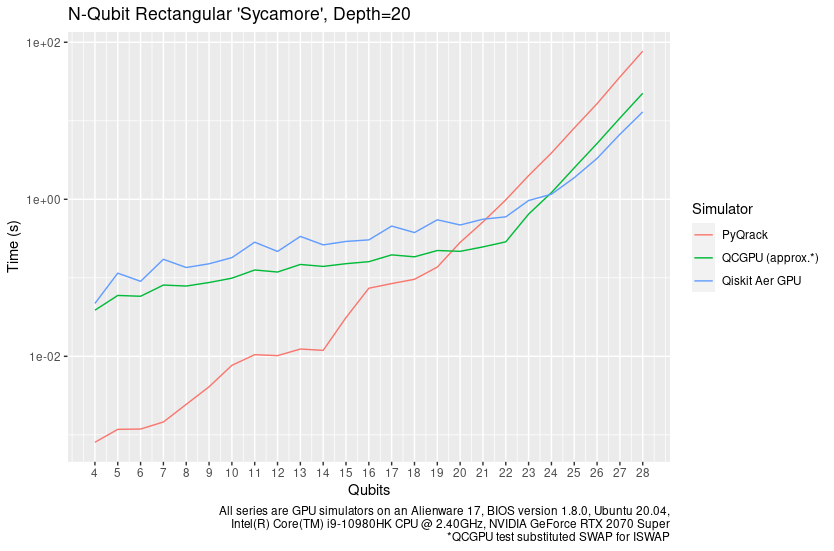
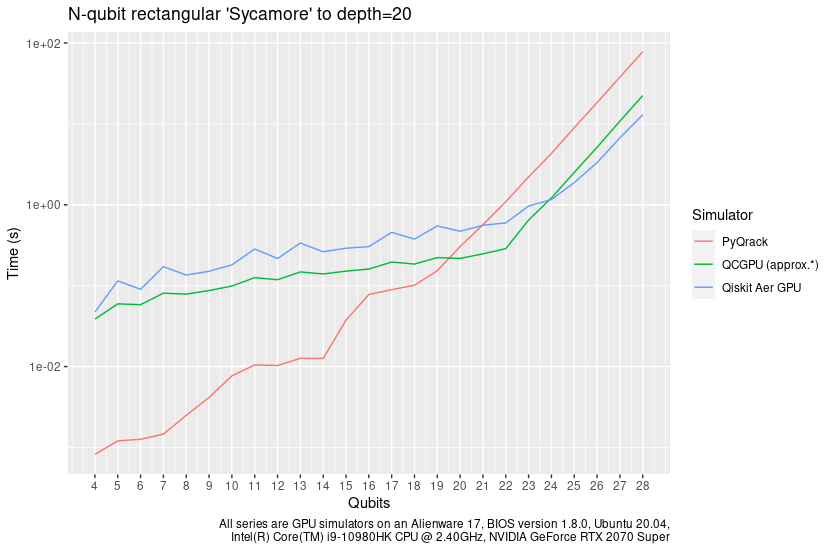
Correct random circuit benchmark, add new cases

diff --git a/docs/performance.rst b/docs/performance.rst
@@ -39,7 +39,7 @@ This performance document is meant to be a simple, to-the-point, and preliminary
 
 100 timed trials of single and parallel gates were run for each qubit count between 4 and 28 qubits. Three tests were performed: the quantum Fourier transform, ("QFT"), random circuits constructed from a universal gate set, and an idealized approximation of Google's Sycamore chip benchmark, as per [Sycamore]_. The benchmarking code is available at `https://github.com/vm6502q/simulator-benchmarks <https://github.com/vm6502q/simulator-benchmarks>`_. Default build and runtime options were used for all candidates. **Notably, this means Qrack ran at single floating point accuracy whereas QCGPU and Qiskit ran at double floating point accuracy.**
 
-The same Alienware 17 laptop device was used for all benchmarks, (BIOS version 1.8.0, Intel(R) Core(TM) i9-10980HK CPU @ 2.40GHz, NVIDIA GeForce RTX 2070 Super). Benchmarks were collected from the week of October 3, 2021 through October 10, 2021.
+The same Alienware 17 laptop device was used for all benchmarks, (BIOS version 1.8.0, Intel(R) Core(TM) i9-10980HK CPU @ 2.40GHz, NVIDIA GeForce RTX 2070 Super). Benchmarks were collected from the week of October 3, 2021 through October 16, 2021.
 
 Comparative benchmarks included QCGPU, the Qiskit-Aer GPU simulator, and Qrack's default typically optimal "stack" of a "QUnit" layer on top of "QStabilizerHybrid," on top of "QPager," on top of a new Pauli gate fusion layer, on top of "QHybrid." All of these candidates are GPU-based, though Qrack "hybridizes" with CPU based simulation as appropriate to improve performance.
 
@@ -58,17 +58,25 @@ The "quantum" (or "discrete") Fourier transform (QFT/DFT) is a realistic and imp
 
 .. image:: performance/qft.png
 
-Likely due to a combination of all of its optimization "layers" and techniques, including Schmidt decomposition, "hybridization" of CPU with GPU simulation, and "hybridization" of stabilizer methods with "Schrödinger method," Qrack clearly outperforms purely GPU based simulations at low qubit widths. Recall that Qrack uses a representatively "hard" initialization with uniformly random single qubit unitary gates on this test as described above. We can on the faster PyQrack series, permutation basis eigenstate inputs are much more quickly executed, for example. Qrack has historically been the only candidate tested which exhibits special case performance on the QFT, as for random permutation basis eigenstate initialization.
+Likely due to a combination of all of its optimization "layers" and techniques, including Schmidt decomposition, "hybridization" of CPU with GPU simulation, and "hybridization" of stabilizer methods with "Schrödinger method," Qrack clearly outperforms purely GPU based simulations at low qubit widths. Recall that Qrack uses a representatively "hard" initialization with uniformly random single qubit unitary gates on this test as described above. We can see on the faster PyQrack series, permutation basis eigenstate inputs are much more quickly executed, for example. Qrack has historically been the only candidate tested which exhibits special case performance on the QFT, as for random permutation basis eigenstate initialization.
 
-Similarly, on random universal circuits, defined above and in the benchmark repository, Qrack leads at all qubit widths.
+Similarly, on random universal circuits, defined above and in the benchmark repository, Qrack leads at low qubit widths.
 
 .. image:: performance/random_universal.png
-
-Again, techniques including Schmidt decomposition, CPU/GPU hybridization, stabilizer/"ket" hybridization, and automatic coalescence of parallel X, Y, and Z gives Qrack a universal edge on a realistic universal gate set for general applications.
 
 For "Sycamore" circuits, argued by other authors to establish "quantum supremacy" of native quantum hardware, Qrack maintains is low-width relative performance edge, (with PyQrack optimization options disabled except CPU/GPU hybridization, but still using "paging" with the C++ "QPager" layer).
 
 .. image:: performance/sycamore.png
+
+However, we can furnish examples of circuits where Qrack has a commanding natural edge over naive "Schrödinger method," but also state-of-the-art in optimizing transpilation, (which could be additionally "layered" over Qrack itself.
+
+.. image:: performance/single_qubits.png
+
+The above graph is a test of (non-Clifford) single qubit gates, to depth of 20 on each qubit in simulator width, in parallel across the full width of a simulator instance. Qrack is transparently able to handle this circuit via "Schmidt decomposition," as single separable qubit subsystems, (similar to tensor network "matrix product states,") completing the test in linear time, over qubit widths. Surprisingly, Qiskit transpilation makes no great difference in execution time, in this case, despite successfully reducing depth of 20 qubits to depth of 1. (We could guess, Qiskit might handle this via conventional "gate fusion" techniques, even without transpilation.) However, even reducing circuit depth to 1 for each qubit in the width, Qiskit still suffers an exponential complexity disadvantage, since it still relies on fully connected "Schrödinger method" at base.
+
+.. image:: performance/random_ccx.png
+
+Our last case for consideration is CCNOT (or CCX) gate input qubit combinations selected at random (with elimination) from an implicitly fully-connected topology, across the width of the simulator, repeated for 20 layers of depth, (initialized with a random permutation basis eigenstate, so as to produce a non-trivial change in the state of the qubits). Remember, CCNOT is specifically non-Clifford, but it is also sufficient in itself to serve as a single gate basis for the entirety of "classical" computation, "universally." So, we see that Qrack is capable of simulating a quantum computer that is emulating a "classical" computer, perhaps trivially. Rather, while we have no direct need to simulate the case of a quantum computer emulating classical computation, it is not granted that any other major quantum computer simulator is able to recognize and handle this case, "transparently," with full and automatic interoperability while all parts of the simulator APIS, without quite a bit of "cleverness" upon the part of the end-user, and user code labor. Again, Qiskit transpilation, not depicted, will reduce circuit depth, but rather signficantly increase simulator execution time, in this case.
 
 Discussion
 **********
